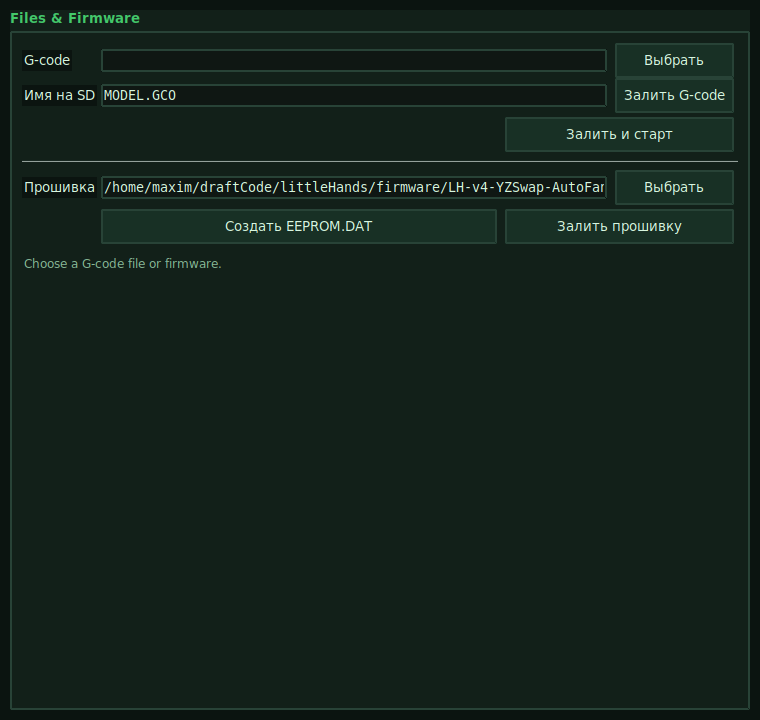
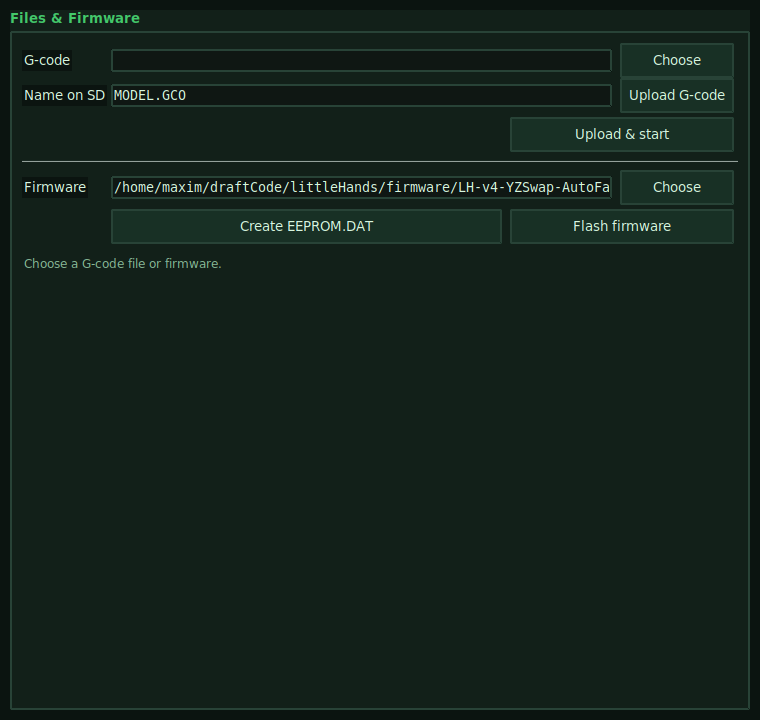
Fix English Files & Firmware screenshot

diff --git a/tools/k9_control_center.py b/tools/k9_control_center.py
@@ -1460,6 +1460,7 @@ class K9ControlCenter:
             pass
 
     def _populate_files_firmware_container(self, parent) -> None:
+        lang = self.lang_var.get().strip() or "ru"
         for child in parent.winfo_children():
             child.destroy()
         self.files_window_content = parent
@@ -1470,34 +1471,34 @@ class K9ControlCenter:
         self.files_gcode_label = ttk.Label(parent, text="G-code")
         self.files_gcode_label.grid(row=0, column=0, sticky="w")
         ttk.Entry(parent, textvariable=self.local_gcode_var).grid(row=0, column=1, columnspan=2, sticky="ew", padx=4)
-        self.pick_gcode_button = ttk.Button(parent, text="Выбрать", command=self.pick_gcode)
+        self.pick_gcode_button = ttk.Button(parent, text=self._t("pick_gcode"), command=self.pick_gcode)
         self.pick_gcode_button.grid(row=0, column=3, padx=4, sticky="ew")
         self.action_widgets.append(self.pick_gcode_button)
 
-        self.sd_name_label = ttk.Label(parent, text="Имя на SD")
+        self.sd_name_label = ttk.Label(parent, text=self._t("sd_name"))
         self.sd_name_label.grid(row=1, column=0, sticky="w")
         ttk.Entry(parent, textvariable=self.dest_name_var).grid(row=1, column=1, columnspan=2, sticky="ew", padx=4)
-        self.upload_gcode_button = ttk.Button(parent, text="Залить G-code", command=self.upload_gcode)
+        self.upload_gcode_button = ttk.Button(parent, text=self._t("upload_gcode"), command=self.upload_gcode)
         self.upload_gcode_button.grid(row=1, column=3, padx=4, sticky="ew")
         self.action_widgets.append(self.upload_gcode_button)
 
-        self.upload_and_start_button = ttk.Button(parent, text="Залить и старт", command=self.upload_and_start_gcode)
+        self.upload_and_start_button = ttk.Button(parent, text=self._t("upload_and_start"), command=self.upload_and_start_gcode)
         self.upload_and_start_button.grid(row=2, column=2, columnspan=2, padx=4, pady=(4, 0), sticky="ew")
         self.action_widgets.append(self.upload_and_start_button)
 
         ttk.Separator(parent, orient="horizontal").grid(row=3, column=0, columnspan=4, sticky="ew", pady=8)
-        self.firmware_label = ttk.Label(parent, text="Прошивка")
+        self.firmware_label = ttk.Label(parent, text=self._t("firmware"))
         self.firmware_label.grid(row=4, column=0, sticky="w")
         ttk.Entry(parent, textvariable=self.firmware_var).grid(row=4, column=1, columnspan=2, sticky="ew", padx=4)
-        self.pick_firmware_button = ttk.Button(parent, text="Выбрать", command=self.pick_firmware)
+        self.pick_firmware_button = ttk.Button(parent, text=self._t("pick_gcode"), command=self.pick_firmware)
         self.pick_firmware_button.grid(row=4, column=3, padx=4, sticky="ew")
         self.action_widgets.append(self.pick_firmware_button)
 
-        self.create_eeprom_button = ttk.Button(parent, text="Создать EEPROM.DAT", command=self.create_eeprom_via_printer)
+        self.create_eeprom_button = ttk.Button(parent, text=self._t("create_eeprom"), command=self.create_eeprom_via_printer)
         self.create_eeprom_button.grid(row=5, column=1, padx=4, pady=(4, 0), sticky="ew")
         self.action_widgets.append(self.create_eeprom_button)
 
-        self.flash_firmware_button = ttk.Button(parent, text="Залить прошивку", command=self.flash_firmware)
+        self.flash_firmware_button = ttk.Button(parent, text=self._t("flash_firmware"), command=self.flash_firmware)
         self.flash_firmware_button.grid(row=5, column=2, columnspan=2, padx=4, pady=(4, 0), sticky="ew")
         self.action_widgets.append(self.flash_firmware_button)
 
